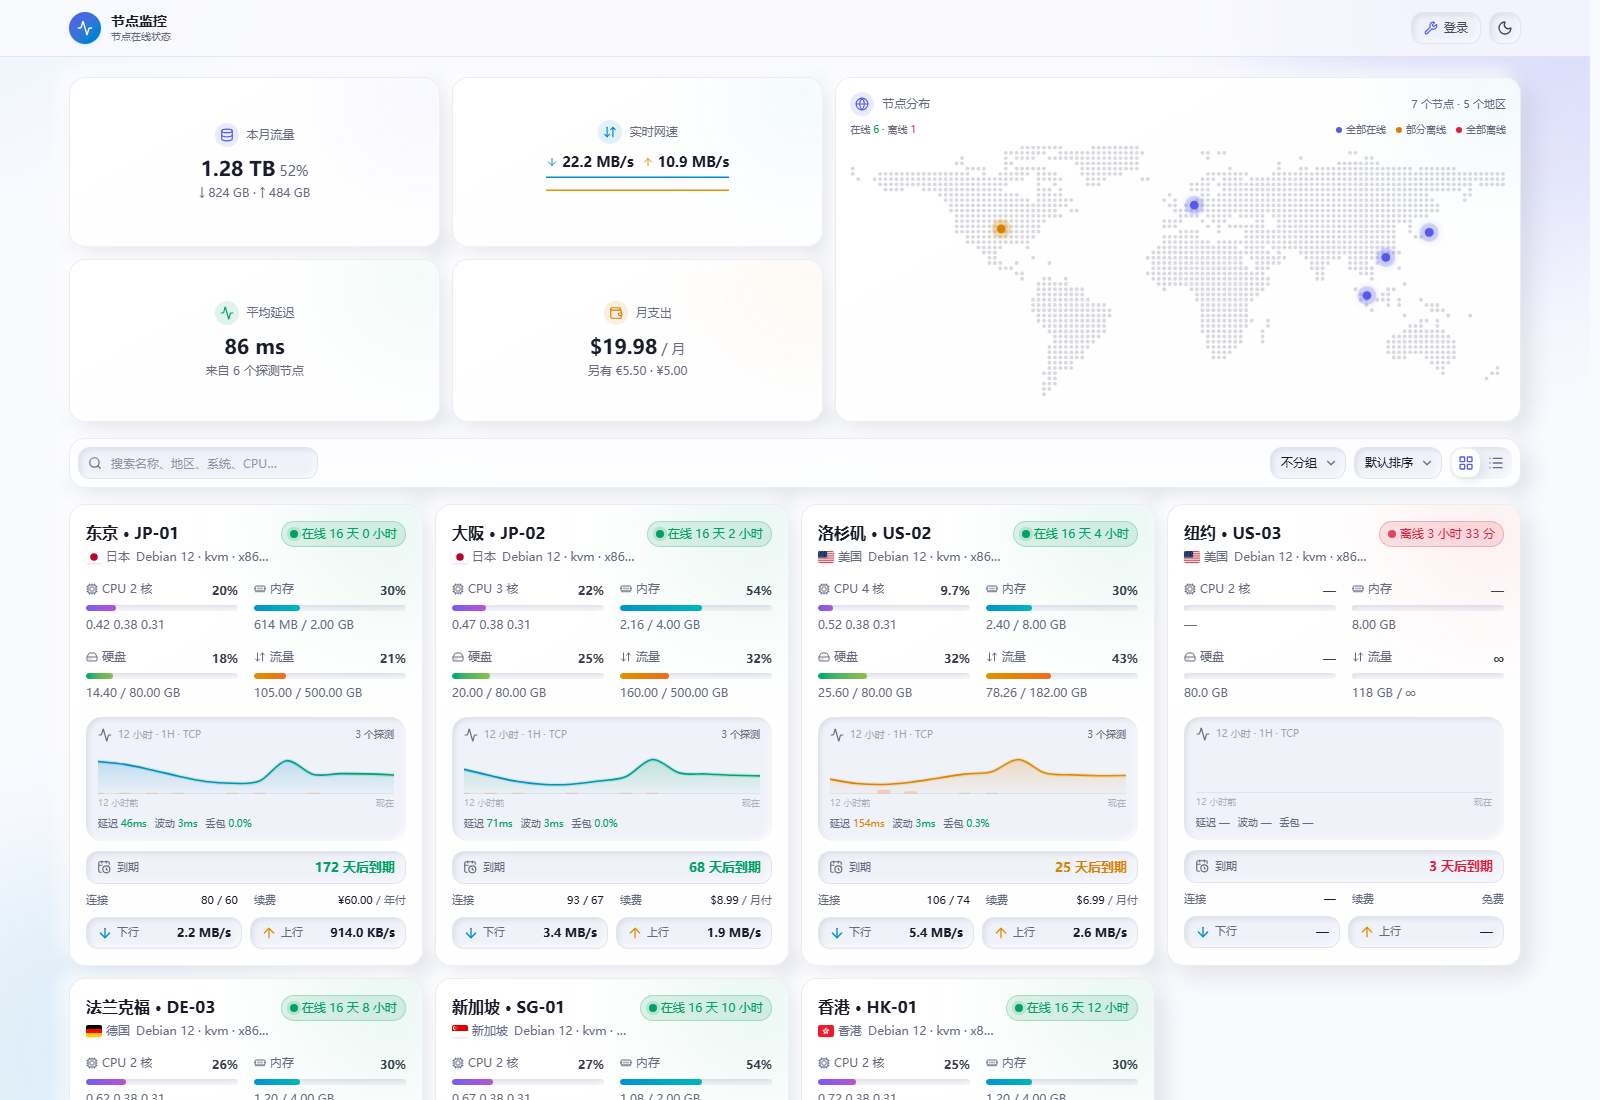
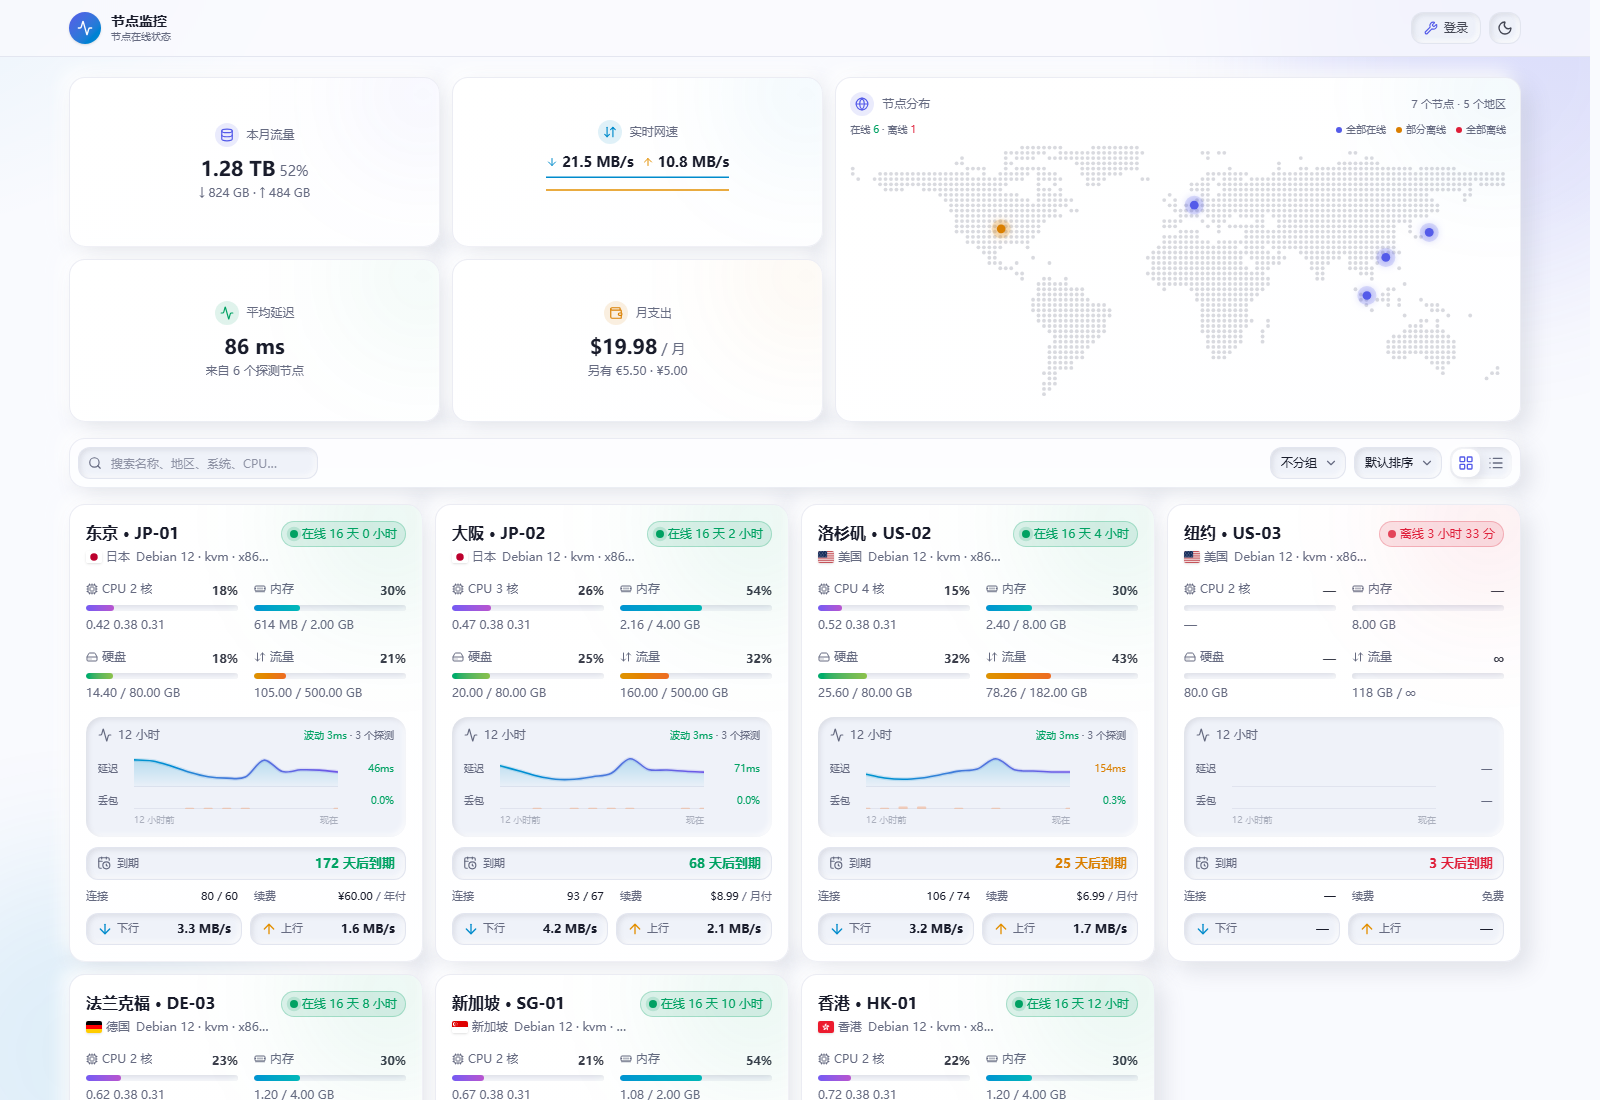
openlat v1.0.1：延迟与丢包分轨显示，去掉卡片上的协议标注

diff --git a/src/components/Bits.tsx b/src/components/Bits.tsx
@@ -196,15 +196,6 @@ function heatOf(value: number | null, kind: "latency" | "loss"): Heat {
   return value < 0.5 ? "ok" : value < 2 ? "mild" : value < 5 ? "warn" : value < 10 ? "hot" : "bad"
 }
 
-const WAVE_TONE: Record<Heat, string> = {
-  ok: "wave-ok",
-  mild: "wave-mild",
-  warn: "wave-warn",
-  hot: "wave-hot",
-  bad: "wave-bad",
-  muted: "wave-muted",
-}
-
 function hourLabel(ts: number): string {
   return new Date(ts * 1000).toLocaleString("zh-CN", { month: "2-digit", day: "2-digit", hour: "2-digit" })
 }
@@ -231,26 +222,26 @@ function waveLine(points: Pt[]): string {
   return d
 }
 
-/** 12 小时延迟 / 丢包波形。卡片与列表共用同一个组件、同一份 hours：
- *  延迟是渐变面积曲线，丢包是从基线长出的热力竖条，缺口如实断开，
- *  趋势与量级一眼可见，也更贴合整体的轻拟物语言 */
-function LatencyWave({
+const W = 100
+
+const slotX = (i: number, count: number) => (count <= 1 ? W / 2 : (i * W) / (count - 1))
+
+/** 12 小时延迟曲线：冷色渐变面积波，单独一条轨道，缺口如实断开，
+ *  末格没有数据时以虚线标出「现在」 */
+function LatencyCurve({
   hours,
-  tone,
   probes,
   compact = false,
   className,
 }: {
   hours: LatencyHour[]
-  tone: Heat
   probes: number
   compact?: boolean
   className?: string
 }) {
   const uid = useId().replace(/[^a-zA-Z0-9_-]/g, "")
-  const H = compact ? 20 : 44
-  const W = 100
-  const padY = compact ? 3 : 5
+  const H = compact ? 14 : 36
+  const padY = compact ? 2 : 4
   const step = W / Math.max(hours.length, 1)
   const values = hours.map((h) => h.latency)
   const clean = values.filter((v): v is number => v !== null)
@@ -259,7 +250,6 @@ function LatencyWave({
   const margin = Math.max((hi - lo) * 0.18, hi * 0.05, 1)
   const yMin = Math.max(0, lo - margin)
   const yMax = hi + margin
-  const px = (i: number) => (hours.length <= 1 ? W / 2 : (i * W) / (hours.length - 1))
   const py = (v: number) => clamp(H - padY - ((v - yMin) / Math.max(yMax - yMin, 1)) * (H - padY * 2), padY, H - padY)
 
   const segments: Pt[][] = []
@@ -269,34 +259,29 @@ function LatencyWave({
       if (run.length > 0) segments.push(run)
       run = []
     } else {
-      run.push({ x: px(i), y: py(v) })
+      run.push({ x: slotX(i, values.length), y: py(v) })
     }
   })
   if (run.length > 0) segments.push(run)
 
   const last = segments.length > 0 ? segments[segments.length - 1] : null
   const lastPt = last ? last[last.length - 1] : null
-  const maxBar = (H - padY) * (compact ? 0.55 : 0.45)
 
   return (
     <svg
       viewBox={`0 0 ${W} ${H}`}
       preserveAspectRatio="none"
       aria-hidden
-      className={cn(WAVE_TONE[tone], "block w-full", className)}
+      className={cn("wave-cool block w-full", className)}
     >
       <defs>
-        <linearGradient id={`wave-stroke-${uid}`} x1="0" y1="0" x2="1" y2="0">
+        <linearGradient id={`lat-stroke-${uid}`} x1="0" y1="0" x2="1" y2="0">
           <stop offset="0%" style={{ stopColor: "var(--wave-a)" }} />
           <stop offset="100%" style={{ stopColor: "var(--wave-b)" }} />
         </linearGradient>
-        <linearGradient id={`wave-fill-${uid}`} gradientUnits="userSpaceOnUse" x1="0" y1="0" x2="0" y2={H}>
-          <stop offset="0%" style={{ stopColor: "var(--wave-fill)", stopOpacity: 0.26 }} />
+        <linearGradient id={`lat-fill-${uid}`} gradientUnits="userSpaceOnUse" x1="0" y1="0" x2="0" y2={H}>
+          <stop offset="0%" style={{ stopColor: "var(--wave-fill)", stopOpacity: 0.3 }} />
           <stop offset="100%" style={{ stopColor: "var(--wave-fill)", stopOpacity: 0.02 }} />
-        </linearGradient>
-        <linearGradient id={`wave-loss-${uid}`} gradientUnits="userSpaceOnUse" x1="0" y1={H} x2="0" y2="0">
-          <stop offset="0%" style={{ stopColor: "var(--heat-hot)", stopOpacity: 0.45 }} />
-          <stop offset="100%" style={{ stopColor: "var(--heat-bad)", stopOpacity: 0.9 }} />
         </linearGradient>
       </defs>
 
@@ -311,20 +296,6 @@ function LatencyWave({
         vectorEffect="non-scaling-stroke"
       />
 
-      {hours.map((hour, i) =>
-        hour.loss !== null && hour.loss > 0 ? (
-          <rect
-            key={i}
-            x={px(i) - step * 0.26}
-            y={H - Math.max(1.2, Math.min(hour.loss / 10, 1) * maxBar)}
-            width={step * 0.52}
-            height={Math.max(1.2, Math.min(hour.loss / 10, 1) * maxBar)}
-            rx="0.5"
-            fill={`url(#wave-loss-${uid})`}
-          />
-        ) : null,
-      )}
-
       {segments.map((points, i) => {
         const d = waveLine(points)
         if (points.length === 1) {
@@ -337,7 +308,7 @@ function LatencyWave({
               width="1.8"
               height="1.8"
               rx="0.9"
-              fill={`url(#wave-stroke-${uid})`}
+              fill={`url(#lat-stroke-${uid})`}
             />
           )
         }
@@ -345,12 +316,12 @@ function LatencyWave({
           <g key={i}>
             <path
               d={`${d} L ${points[points.length - 1].x} ${H} L ${points[0].x} ${H} Z`}
-              fill={`url(#wave-fill-${uid})`}
+              fill={`url(#lat-fill-${uid})`}
             />
             <path
               d={d}
               fill="none"
-              stroke={`url(#wave-stroke-${uid})`}
+              stroke={`url(#lat-stroke-${uid})`}
               strokeWidth="4"
               strokeOpacity="0.16"
               strokeLinecap="round"
@@ -360,7 +331,7 @@ function LatencyWave({
             <path
               d={d}
               fill="none"
-              stroke={`url(#wave-stroke-${uid})`}
+              stroke={`url(#lat-stroke-${uid})`}
               strokeWidth="1.6"
               strokeLinecap="round"
               strokeLinejoin="round"
@@ -385,13 +356,11 @@ function LatencyWave({
       )}
 
       {hours.map((hour, i) => (
-        <rect key={i} x={px(i) - step / 2} y="0" width={step} height={H} fill="transparent" pointerEvents="all">
+        <rect key={i} x={slotX(i, hours.length) - step / 2} y="0" width={step} height={H} fill="transparent" pointerEvents="all">
           <title>
             {`${hourLabel(hour.ts)} · 延迟 ${
               hour.latency === null ? "无数据" : `${Math.round(hour.latency)} ms`
-            } · 丢包 ${hour.loss === null ? "无数据" : `${hour.loss.toFixed(1)}%`}${
-              probes > 1 ? `（${probes} 个探测均值）` : ""
-            }`}
+            }${probes > 1 ? `（${probes} 个探测均值）` : ""}`}
           </title>
         </rect>
       ))}
@@ -399,11 +368,76 @@ function LatencyWave({
   )
 }
 
-function HeatStat({ label, value, tone }: { label: string; value: string; tone: string }) {
+/** 12 小时丢包竖条：暖色单独一条轨道，与冷色延迟曲线在颜色和形态上都不同，
+ *  两者不会再混在一起 */
+function LossBars({
+  hours,
+  probes,
+  compact = false,
+  className,
+}: {
+  hours: LatencyHour[]
+  probes: number
+  compact?: boolean
+  className?: string
+}) {
+  const uid = useId().replace(/[^a-zA-Z0-9_-]/g, "")
+  const H = compact ? 10 : 16
+  const padTop = compact ? 1.5 : 2.5
+  const step = W / Math.max(hours.length, 1)
+  const maxBar = H - padTop - 0.5
+
   return (
-    <span>
-      {label} <span className={tone}>{value}</span>
-    </span>
+    <svg
+      viewBox={`0 0 ${W} ${H}`}
+      preserveAspectRatio="none"
+      aria-hidden
+      className={cn("block w-full", className)}
+    >
+      <defs>
+        <linearGradient id={`loss-${uid}`} gradientUnits="userSpaceOnUse" x1="0" y1={H} x2="0" y2="0">
+          <stop offset="0%" style={{ stopColor: "var(--heat-hot)", stopOpacity: 0.5 }} />
+          <stop offset="100%" style={{ stopColor: "var(--heat-bad)", stopOpacity: 0.95 }} />
+        </linearGradient>
+      </defs>
+
+      <line
+        x1="0"
+        y1={H - 0.5}
+        x2={W}
+        y2={H - 0.5}
+        className="stroke-border"
+        strokeWidth="1"
+        opacity="0.7"
+        vectorEffect="non-scaling-stroke"
+      />
+
+      {hours.map((hour, i) => {
+        if (hour.loss === null || hour.loss <= 0) return null
+        const bar = Math.max(1.2, Math.min(hour.loss / 10, 1) * maxBar)
+        return (
+          <rect
+            key={i}
+            x={slotX(i, hours.length) - step * 0.27}
+            y={H - bar}
+            width={step * 0.54}
+            height={bar}
+            rx="0.5"
+            fill={`url(#loss-${uid})`}
+          />
+        )
+      })}
+
+      {hours.map((hour, i) => (
+        <rect key={i} x={slotX(i, hours.length) - step / 2} y="0" width={step} height={H} fill="transparent" pointerEvents="all">
+          <title>
+            {`${hourLabel(hour.ts)} · 丢包 ${hour.loss === null ? "无数据" : `${hour.loss.toFixed(1)}%`}${
+              probes > 1 ? `（${probes} 个探测均值）` : ""
+            }`}
+          </title>
+        </rect>
+      ))}
+    </svg>
   )
 }
 
@@ -420,41 +454,58 @@ export const LatencyPanel = memo(function LatencyPanel({ latency, className }: {
       <div className="flex items-center justify-between gap-2">
         <span className="flex items-center gap-1.5 text-xs font-medium text-muted-foreground">
           <Activity className="size-3.5" />
-          <span className="text-[10px] font-normal text-muted-foreground/60">12 小时 · 1H · TCP</span>
+          12 小时
         </span>
         <span
-          className={cn(
-            "shrink-0 text-[10px]",
-            failed ? "text-destructive" : "tnum text-muted-foreground",
-          )}
+          className="tnum shrink-0 truncate text-[10px] text-muted-foreground"
           title={failed ? undefined : probes.map((p) => p.name).join("、")}
         >
-          {failed ? "读取失败" : probes.length > 0 ? `${probes.length} 个探测` : ""}
+          {failed ? (
+            <span className="text-destructive">读取失败</span>
+          ) : (
+            <>
+              {jitter !== null && (
+                <>
+                  <span className={TONE_TEXT[jitterTone(jitter)]}>波动 {Math.round(jitter)}ms</span>
+                  {probes.length > 0 && " · "}
+                </>
+              )}
+              {probes.length > 0 && `${probes.length} 个探测`}
+            </>
+          )}
         </span>
       </div>
-      <div className="mt-2">
-        <LatencyWave hours={hours} tone={failed ? "muted" : heatOf(avgLatency, "latency")} probes={probes.length} className="h-11" />
-        <div className="mt-0.5 flex items-center justify-between text-[9px] text-muted-foreground/50">
-          <span>12 小时前</span>
-          <span>现在</span>
+
+      <div className="mt-2 space-y-1.5">
+        <div className="flex items-center gap-2">
+          <span className="w-7 shrink-0 text-[10px] leading-none text-muted-foreground">延迟</span>
+          <LatencyCurve hours={hours} probes={probes.length} className="h-9 min-w-0 flex-1" />
+          <span
+            className={cn(
+              "tnum w-12 shrink-0 text-right text-[10px] leading-none",
+              HEAT_TEXT[heatOf(avgLatency, "latency")],
+            )}
+          >
+            {avgLatency === null ? "—" : `${Math.round(avgLatency)}ms`}
+          </span>
+        </div>
+        <div className="flex items-center gap-2">
+          <span className="w-7 shrink-0 text-[10px] leading-none text-muted-foreground">丢包</span>
+          <LossBars hours={hours} probes={probes.length} className="h-4 min-w-0 flex-1" />
+          <span
+            className={cn(
+              "tnum w-12 shrink-0 text-right text-[10px] leading-none",
+              HEAT_TEXT[heatOf(avgLoss, "loss")],
+            )}
+          >
+            {avgLoss === null ? "—" : `${avgLoss.toFixed(1)}%`}
+          </span>
         </div>
       </div>
-      <div className="tnum mt-1.5 flex min-w-0 items-center gap-2 truncate text-[10px] text-muted-foreground">
-        <HeatStat
-          label="延迟"
-          tone={HEAT_TEXT[heatOf(avgLatency, "latency")]}
-          value={avgLatency === null ? "—" : `${Math.round(avgLatency)}ms`}
-        />
-        <HeatStat
-          label="波动"
-          tone={TONE_TEXT[jitterTone(jitter)]}
-          value={jitter === null ? "—" : `${Math.round(jitter)}ms`}
-        />
-        <HeatStat
-          label="丢包"
-          tone={HEAT_TEXT[heatOf(avgLoss, "loss")]}
-          value={avgLoss === null ? "—" : `${avgLoss.toFixed(1)}%`}
-        />
+
+      <div className="mt-1 flex items-center justify-between pl-9 pr-14 text-[9px] text-muted-foreground/50">
+        <span>12 小时前</span>
+        <span>现在</span>
       </div>
     </div>
   )
@@ -466,15 +517,10 @@ export function LatencyMini({ latency, className }: { latency?: Latency; classNa
   const probes = latency?.probes ?? []
   const avgLoss = latency?.avgLoss ?? null
   return (
-    <span className={cn("flex min-w-0 flex-col justify-center gap-1.5", className)}>
-      {/* 与卡片视图同一份 hours（多探测按小时求均值）与同一个 LatencyWave，两个视图显示一致 */}
-      <LatencyWave
-        hours={hours}
-        tone={latency?.failed ? "muted" : heatOf(latency?.avgLatency ?? null, "latency")}
-        probes={probes.length}
-        compact
-        className="h-5"
-      />
+    <span className={cn("flex min-w-0 flex-col justify-center gap-1", className)}>
+      {/* 与卡片视图同一份 hours（多探测按小时求均值）与同一对组件，两个视图显示一致 */}
+      <LatencyCurve hours={hours} probes={probes.length} compact className="h-3.5" />
+      <LossBars hours={hours} probes={probes.length} compact className="h-2.5" />
       <span className="flex min-w-0 items-center justify-between gap-2 text-[10px] leading-none whitespace-nowrap">
         <span className={cn("tnum truncate", TONE_TEXT[best.tone])}>{best.text}</span>
         <span className={cn("tnum shrink-0", HEAT_TEXT[heatOf(avgLoss, "loss")])}>

diff --git a/src/index.css b/src/index.css
@@ -202,14 +202,9 @@
   .bar-net { background-image: var(--grad-net); }
   .bar-danger { background-image: var(--grad-danger); }
 
-  /* 延迟波形按严重度换一组渐变：曲线起点 → 终点、面积填充色三个变量，
-     由 .wave-* 设在 svg 上，defs 里的 stop 直接引用 */
-  .wave-ok { --wave-a: var(--info); --wave-b: var(--ok); --wave-fill: var(--info); }
-  .wave-mild { --wave-a: var(--info); --wave-b: var(--chart-3); --wave-fill: var(--chart-3); }
-  .wave-warn { --wave-a: var(--warn); --wave-b: var(--chart-4); --wave-fill: var(--warn); }
-  .wave-hot { --wave-a: var(--chart-4); --wave-b: var(--destructive); --wave-fill: var(--chart-4); }
-  .wave-bad { --wave-a: var(--destructive); --wave-b: var(--chart-5); --wave-fill: var(--destructive); }
-  .wave-muted { --wave-a: var(--muted-foreground); --wave-b: var(--muted-foreground); --wave-fill: var(--muted-foreground); }
+  /* 延迟曲线固定冷色（蓝 → 紫），丢包竖条固定暖色（见 LossBars 里的热力渐变），
+     两组数据靠色系与形态区分；严重度只体现在右侧数值的文字颜色上 */
+  .wave-cool { --wave-a: var(--chart-2); --wave-b: var(--chart-1); --wave-fill: var(--chart-2); }
 
   .neu {
     background-image: linear-gradient(
